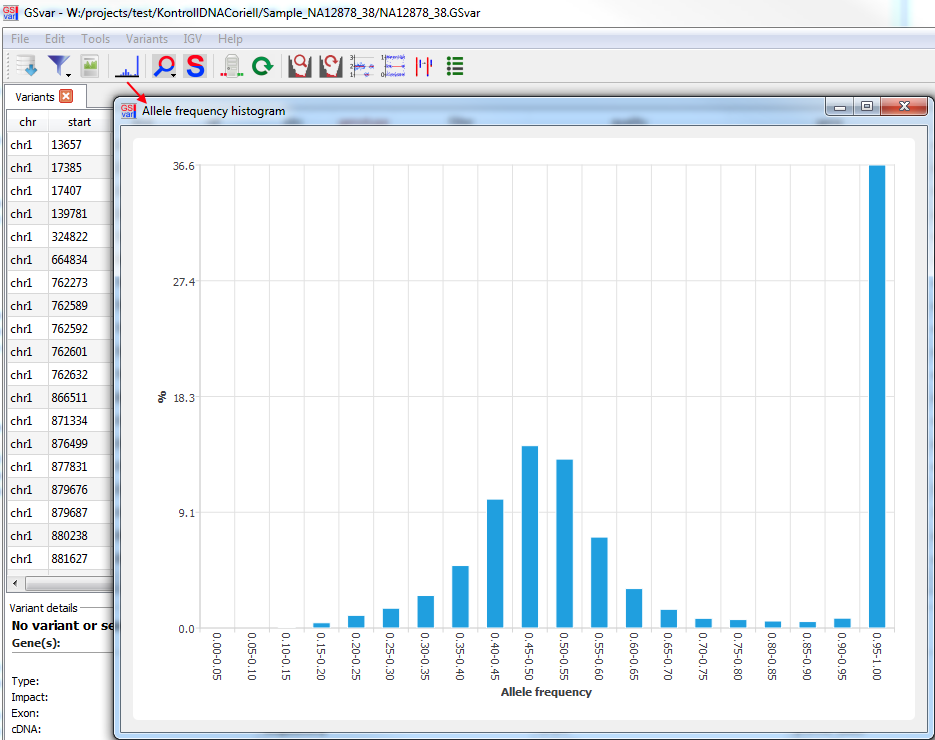
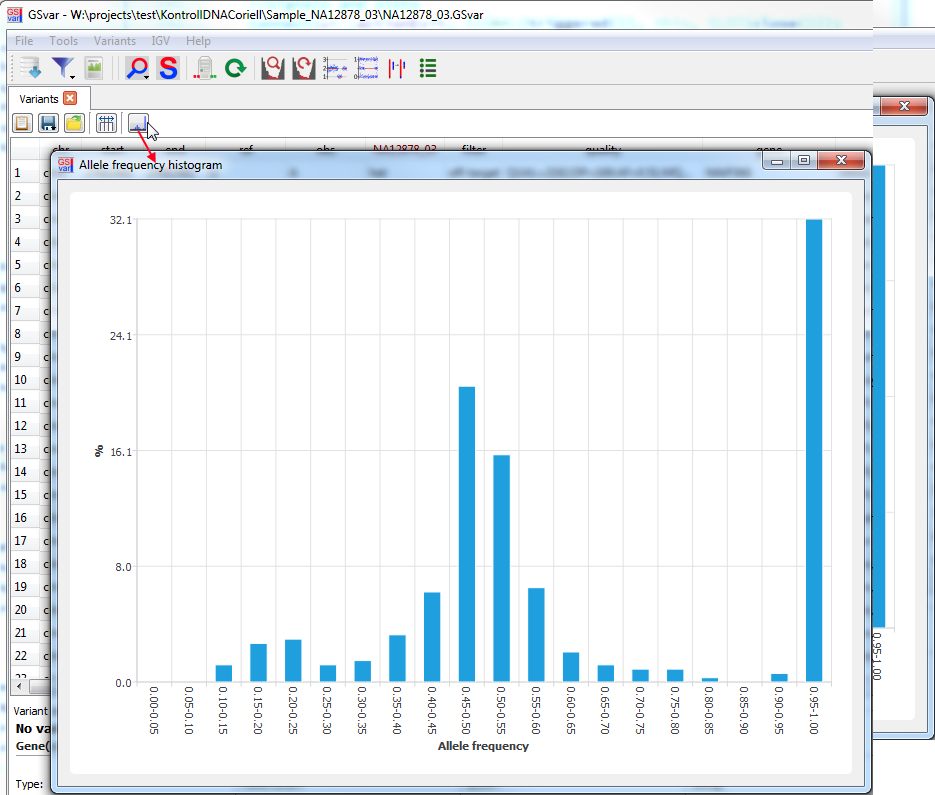
GSvar: moved AF histogram to variants tool bar.

diff --git a/src/GSvar/MainWindow.cpp b/src/GSvar/MainWindow.cpp
@@ -157,6 +157,7 @@ MainWindow::MainWindow(QWidget *parent)
 	ui_.vars_export_btn->menu()->addAction("Export VCF", this, SLOT(exportVCF()));
 	ui_.vars_export_btn->menu()->addAction("Export GSvar", this, SLOT(exportGSvar()));
 	connect(ui_.vars_folder_btn, SIGNAL(clicked(bool)), this, SLOT(openVariantListFolder()));
+	connect(ui_.vars_af_hist, SIGNAL(clicked(bool)), this, SLOT(showAfHistogram()));
 
 	//misc initialization
 	filewatcher_.setDelayInSeconds(10);
@@ -822,7 +823,7 @@ void MainWindow::showVariantSampleOverview()
 	}
 }
 
-void MainWindow::on_actionShowAfHistogram_triggered()
+void MainWindow::showAfHistogram()
 {
 	AnalysisType type = variants_.type();
 	if (type!=GERMLINE_SINGLESAMPLE && type!=GERMLINE_TRIO)

diff --git a/src/GSvar/MainWindow.h b/src/GSvar/MainWindow.h
@@ -190,7 +190,7 @@ public slots:
 	///Shows a sample overview for the current variant;
 	void showVariantSampleOverview();
 	///Show allele frequency histogram
-	void on_actionShowAfHistogram_triggered();
+	void showAfHistogram();
 	///Show encryption helper
 	void on_actionEncrypt_triggered();
 

diff --git a/doc/GSvar/changelog.md b/doc/GSvar/changelog.md
@@ -1,5 +1,9 @@
 # GSvar change log
 
+### 2019_03-18-g1f0ce07 (13.03.19)
+- General: Moved functionality for variant list from main menu to variant list tool bar.
+- CNVs: Minor improvements to CNV window for ClinCNV.
+
 ### 2018_03-7-gc9e7564 (06.03.19)
 - General: Column widths remain the same when updating filters.
 - General: Added support for new single-sample GSvar files that use the sample name instead of 'genotype' in the header line.
@@ -295,6 +299,8 @@
 --
 
 [back to main page](index.md)
+
+
 
 
 
